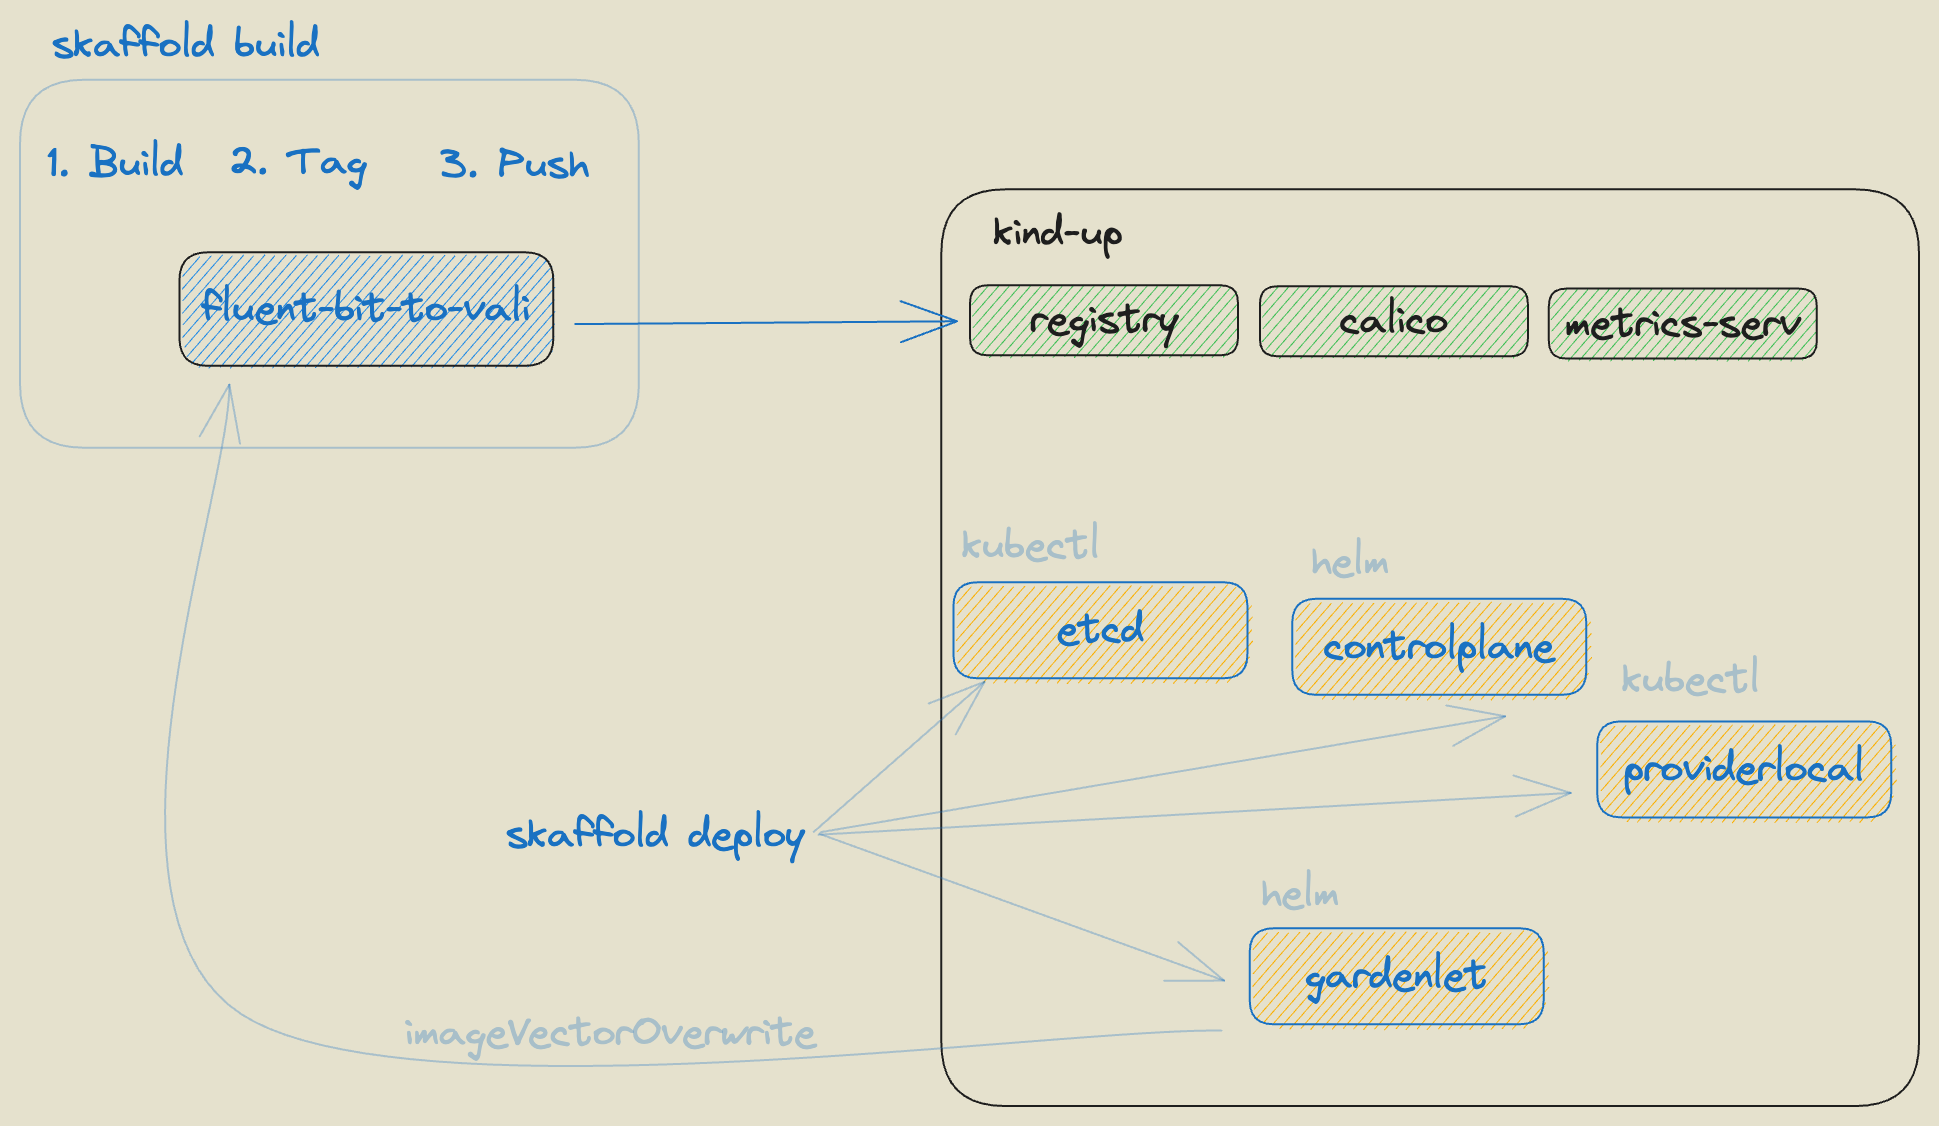
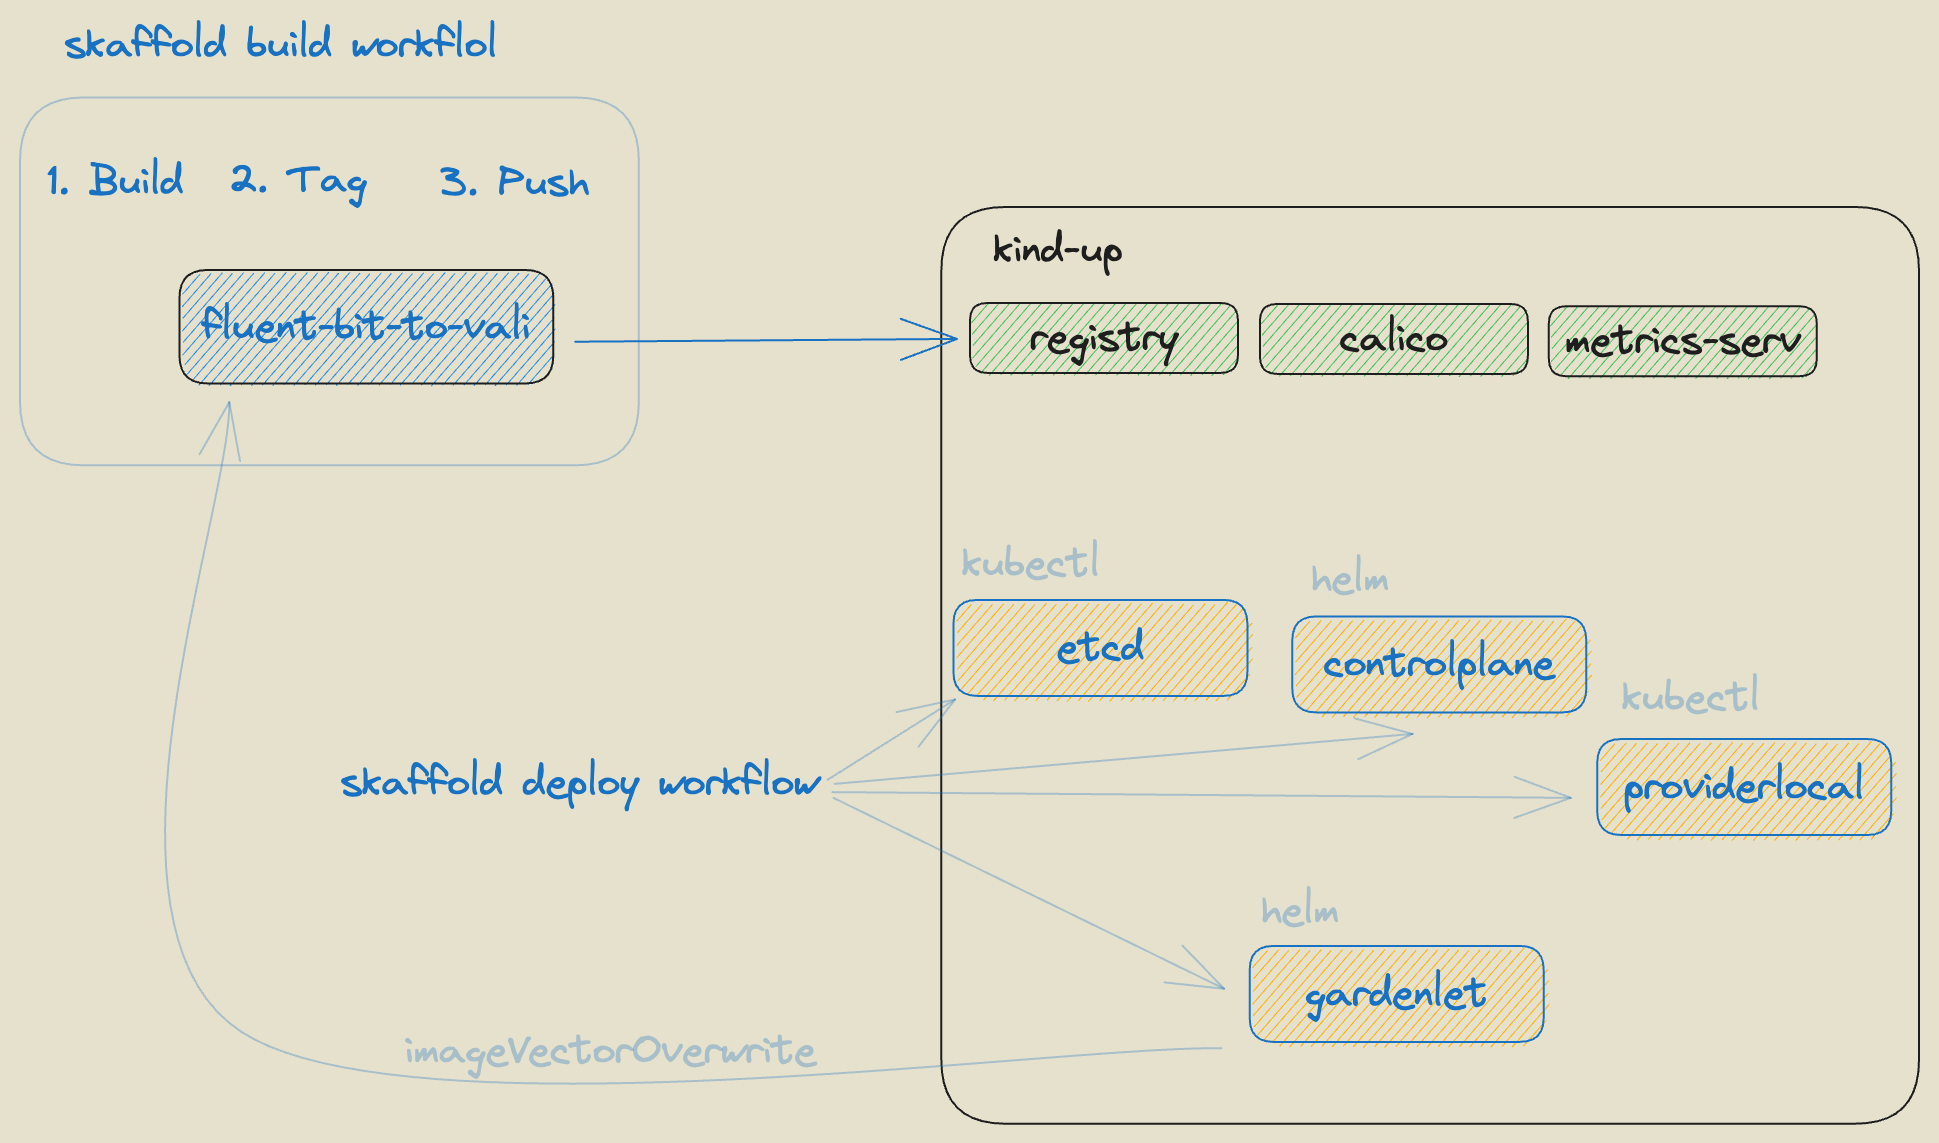
apply documentation feedback

diff --git a/docs/development/skaffold.md b/docs/development/skaffold.md
@@ -2,7 +2,9 @@
 
 ## Skaffold based development scenario for fluent-bit-vali-plugin
 
-It is possible to construct a local development environment for the logging stack based on [skaffold](https://skaffold.dev). It builds upon the gardener `skaffold` pipeline and provides a hook for building the deploying the `fluent-bit-plugin` into the local development kind cluster.
+It is possible to construct a local development environment for the logging stack based on [skaffold]
+(https://skaffold.dev). It builds upon the gardener `skaffold` pipeline and provides a hook for building and
+deploying the `fluent-bit-plugin` into the local development kind cluster.
 
 ![skaffold pipeline](images/skaffold.png)
 
@@ -19,17 +21,44 @@ Once the gardener repository is fetched, initiate the kind cluster with:
 make -C gardener kind-up
 ```
 
-In addition to the kind cluster itself, the `kind-up` target brings also: a docker registry, calico and a metrics-server.
+In addition to the kind cluster itself, the `kind-up` target brings also the following dependencies: 
+- `docker registry`
+- `calico`
+- `metrics-server`
+
 Once the kind cluster is up and running we can start the `skaffold` local pipeline with the following command:
 ```bash
-make skaffold-up
+make skaffold-run
 ```
+This `make` target runs the skaffold `run` workflow executing the pipeline according the specified [skaffold.yaml](/skaffold.yaml) 
+configuration.
 
-This uses the skaffold.yaml definition to bring `etcd`, `controlplane`,  `provider local` and `gardenlet` skaffold modules into the local kind cluster. The last `gardenlet` module contains the build target for generating the `fluent-bit-plugin` container image and it pushes it to the local registry already present in the local kind cluster. Once the skaffold deployment is triggered the `fluent-bit-plugin` is brought into the cluster with the gardenlet specific deployment model.
+The [skaffold.yaml](/skaffold.yaml) definition brings:
+- `etcd`
+- `controlplane`
+- `provider local`
+- `gardenlet`
 
-After the `skaffold-up` target is executed the skaffold pipeline may be started in the `dev` mode with
+skaffold modules into 
+the local kind cluster. The last `gardenlet` module contains the build target for generating the `fluent-bit-plugin` 
+container image and it pushes it to the local registry already present in the local kind cluster. When the skaffold 
+deployment workflow is triggered, the `fluent-bit-plugin` is brought into the cluster with the gardenlet specific 
+deployment 
+model.
+
+After the `skaffold-run` target is executed the skaffold pipeline may be started in the `dev` mode with
 ```bash
 make skaffold-dev
 ```
 
-That brings the ability to run the entire pipeline once the local code modifications are made and ready to be tested.
+That brings the ability of the pipeline to listen for modifications and trigger the update of the entire pipeline 
+once such modifications are present.
+
+To clean up the environment set up by the pipeline, use the `kind-down` target from the fetched gardener repository.
+```bash
+make -C gardener kind-down
+```
+or simply delete the kind cluster with `kind`
+```bash
+kind delete cluster --name gardener-local
+```
